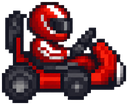
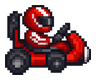
Polish go-cart visuals and speed

diff --git a/village/src/goCartPrototype.ts b/village/src/goCartPrototype.ts
@@ -9,14 +9,12 @@ const CART_START_TILE = [160, 57] as const;
 const CART_WIDTH = 68;
 const CART_HEIGHT = 56;
 const CART_INTERACTION_RADIUS = TILE_SIZE * 2;
-const CART_SPEED = 260;
-const BOOST_DISTANCE = 92;
-const BOOST_COOLDOWN_MS = 180;
-const PUFF_COOLDOWN_MS = 320;
-const PUFF_LIFETIME_MS = 850;
+const CART_SPEED = 620;
+const BOOST_DISTANCE = 150;
+const BOOST_COOLDOWN_MS = 100;
 const CART_Y_OFFSET = 6;
-const TEMPORARY_WOKA_TEXTURE_ID = "wvh-go-cart-avatar";
-const TEMPORARY_WOKA_URL = "https://together.deine-schule.com/resources/wvh/go-cart-avatar.png";
+const TEMPORARY_WOKA_TEXTURE_ID = "wvh-go-cart-avatar-v2";
+const TEMPORARY_WOKA_URL = "https://together.deine-schule.com/resources/wvh/go-cart-avatar.png?v=2";
 const TEMPORARY_WOKA_FRAME_WIDTH = 96;
 const TEMPORARY_WOKA_FRAME_HEIGHT = 80;
 const TEMPORARY_WOKA_SCALE = 0.62;
@@ -41,17 +39,11 @@ let cartMode = false;
 let nativeCartAvatarActive = false;
 let boostRunning = false;
 let lastBoostAt = 0;
-let lastPuffAt = 0;
-let puffCount = 0;
 let cartFollowTimer: number | undefined;
 let cartFollowInFlight = false;
 
 const parkedCartUrl = new URL("../go-cart-parked.html", import.meta.url).toString();
 const driverCartUrl = new URL("../go-cart-driver.html", import.meta.url).toString();
-const puffUrl = new URL("../go-cart-puff.html", import.meta.url).toString();
-
-const wait = (milliseconds: number) =>
-    new Promise(resolve => window.setTimeout(resolve, milliseconds));
 
 const tileToPixelCenter = ([tileX, tileY]: readonly [number, number]) => ({
     x: tileX * TILE_SIZE + TILE_CENTER,
@@ -105,29 +97,6 @@ const stopCartFollow = () => {
     window.clearInterval(cartFollowTimer);
     cartFollowTimer = undefined;
     cartFollowInFlight = false;
-};
-
-const createPuff = async (x: number, y: number) => {
-    const now = Date.now();
-    if (now - lastPuffAt < PUFF_COOLDOWN_MS) return;
-    lastPuffAt = now;
-
-    const puffName = `go-cart-puff-${Date.now()}-${puffCount++}`;
-    WA.room.website.create({
-        name: puffName,
-        url: puffUrl,
-        position: {
-            x: x - 22,
-            y: y - 18,
-            width: 44,
-            height: 36,
-        },
-        visible: true,
-        origin: "map",
-    });
-
-    await wait(PUFF_LIFETIME_MS);
-    await WA.room.website.delete(puffName).catch(() => undefined);
 };
 
 const parkCartAt = (x: number, y: number) => {
@@ -240,8 +209,6 @@ const boost = async (direction: Direction, x: number, y: number) => {
     const vector = directionVector(direction);
     const targetX = x + vector.x * BOOST_DISTANCE;
     const targetY = y + vector.y * BOOST_DISTANCE;
-
-    void createPuff(x - vector.x * 26, y - vector.y * 26);
 
     try {
         await WA.player.moveTo(targetX, targetY, CART_SPEED);

diff --git a/village/water-slide-cheer.html b/village/water-slide-cheer.html
@@ -20,16 +20,15 @@
       top: 50%;
       transform: translate(-50%, -50%);
       box-sizing: border-box;
-      min-width: 190px;
-      max-width: 260px;
-      padding: 13px 18px;
+      width: 206px;
+      padding: 10px 14px;
       border: 3px solid rgba(255, 255, 255, 0.95);
       border-radius: 26px;
       color: #1e2a35;
       background: linear-gradient(135deg, #ffffff 0%, #fff5b3 100%);
       box-shadow: 0 10px 24px rgba(0, 0, 0, 0.32);
       text-align: center;
-      font-size: 20px;
+      font-size: 18px;
       font-weight: 800;
       line-height: 1.15;
       animation: pop 0.26s ease-out, float 0.9s ease-in-out infinite alternate;

diff --git a/village/src/waterSlide.ts b/village/src/waterSlide.ts
@@ -105,11 +105,11 @@ const showCheer = async (message = randomCheerMessage(), playerName = "") => {
             horizontal: "middle",
         },
         size: {
-            width: "280px",
-            height: "88px",
+            width: "230px",
+            height: "74px",
         },
         margin: {
-            top: "88px",
+            top: "94px",
         },
     });
 };
